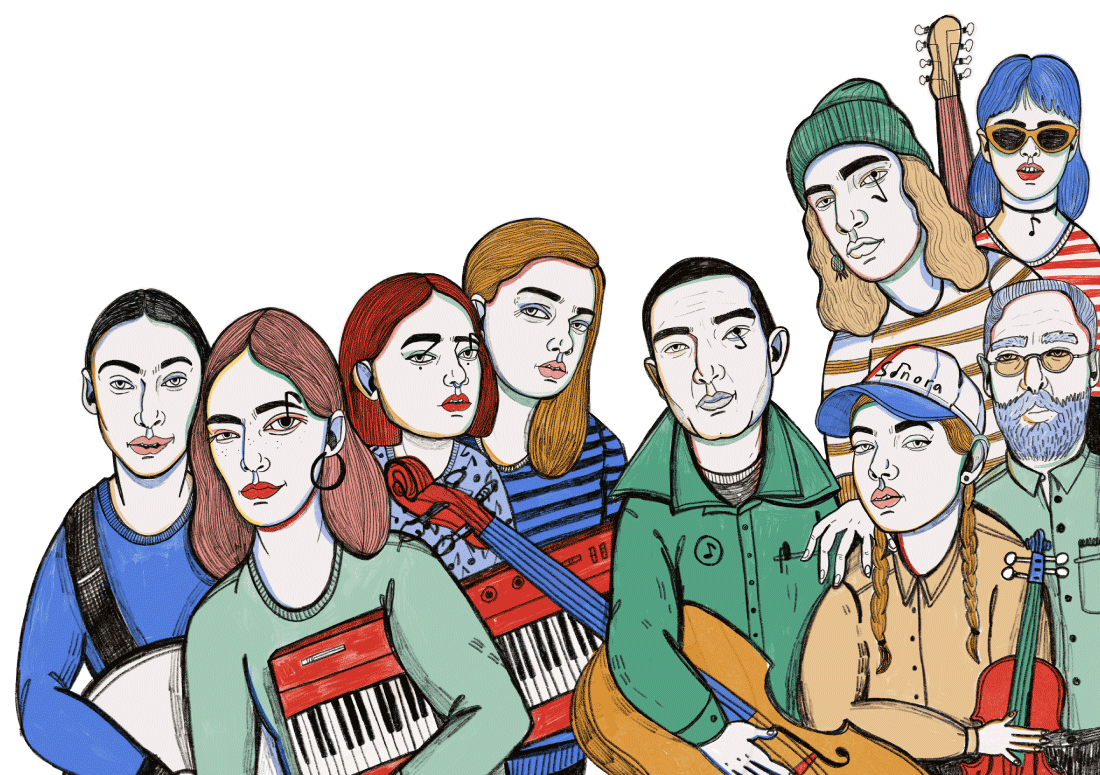
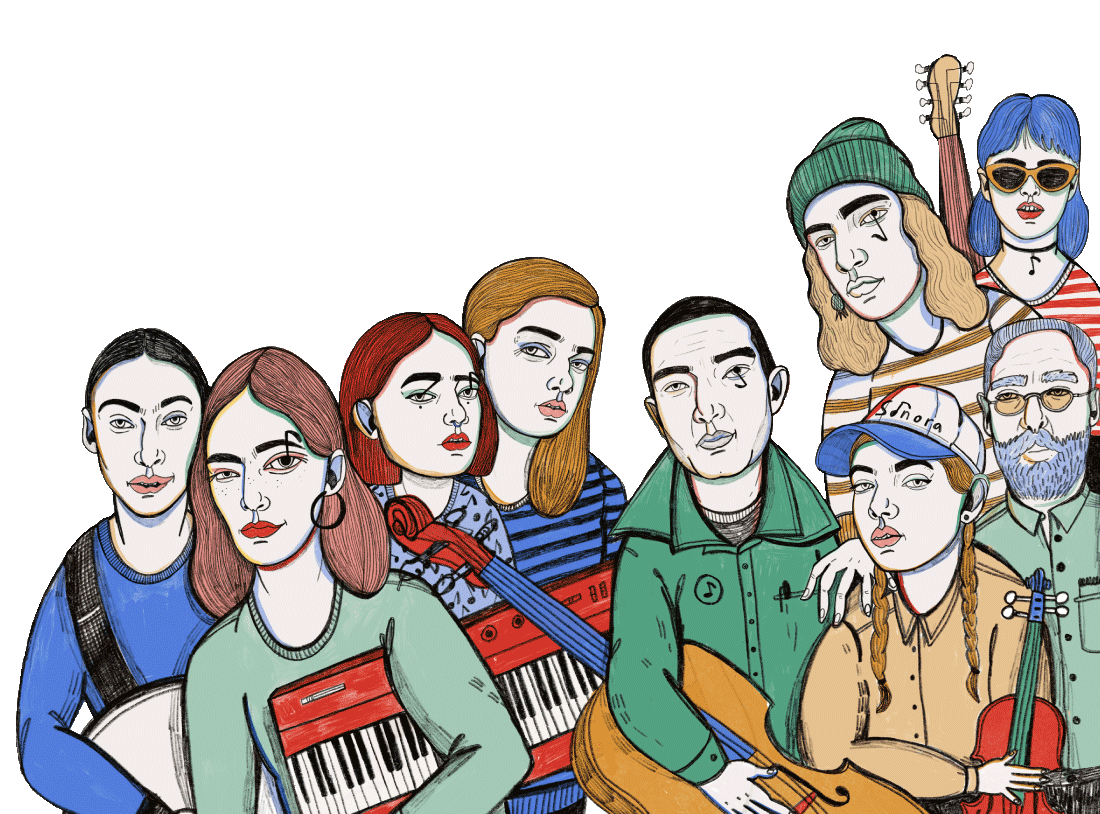
Update home illustration and title

diff --git a/components/AppFooter.vue b/components/AppFooter.vue
@@ -18,7 +18,7 @@
         </div>
         <a href="https://ivc.gva.es/val/ivc-val/qui-som-ivc/avis-legal-val/politica-de-privadesa/nota-legal-val" class="legal-notice" target="_blank" rel="noopener noreferrer">Nota Legal</a>
       </div>
-      <a class="logos" href="https://ivc.gva.es/">
+      <a class="logos" href="https://ivc.gva.es/" target="_blank" rel="noopener noreferer">
         <img src="../assets/images/logos/generalitat.svg" class="gva" alt="Conselleria d'Educació">
         <img src="../assets/images/logos/ivc-cultura.png" class="ivc" alt="IVC - Fes Cultura">
       </a>

diff --git a/pages/index.vue b/pages/index.vue
@@ -1,7 +1,7 @@
 <template>
   <main>
     <header id="home">
-      <h1>CIRCUIT<br> DE MÚSICA<br> VALENCIANA</h1>
+      <h1>CIRCUIT<br> DE LA MÚSICA<br> VALENCIANA</h1>
       <p class="dates">
         25.10.20 → 13.3.21
       </p>
